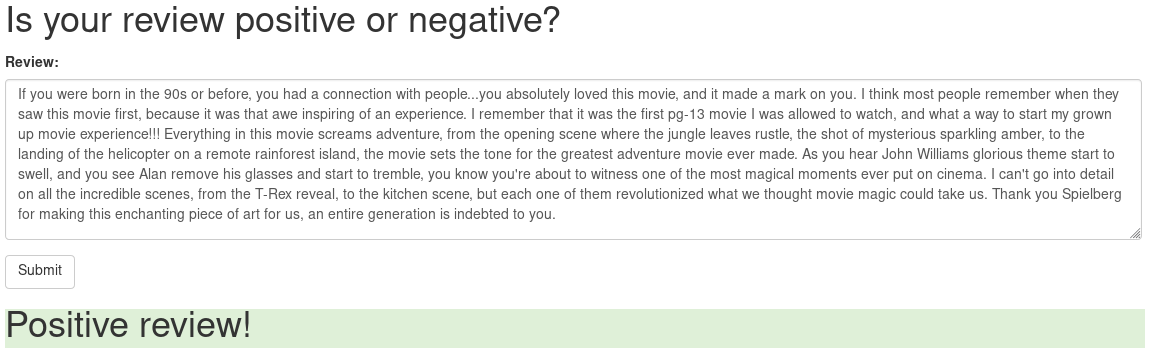
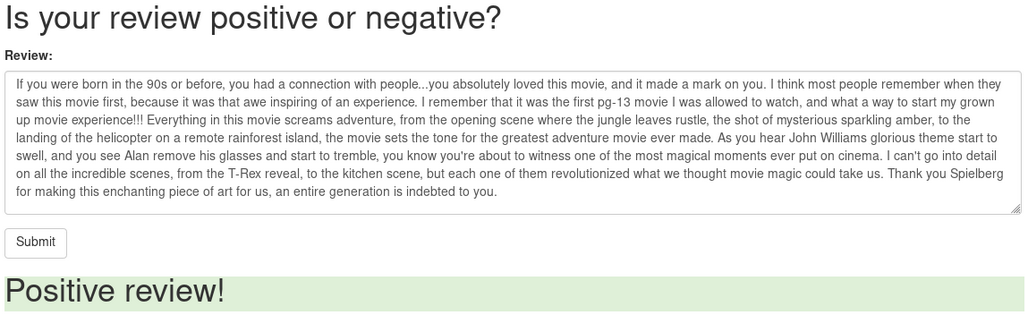
Reduce image size of positive review in Project 5

diff --git a/README.md b/README.md
@@ -84,7 +84,7 @@ In the final project, I created a web app for binary sentiment classification of
 
 Whenever a HTTP POST request from the web app is received by the API Gateway, the Lambda function is called and forwards the review content to the model's endpoint which is hosted on AWS. The model performs inference on this input data, and returns the classification result to the web app.
 
-For testing I have selected a review based on the movie *Jurassic Park*, which has with a 10-of-10 point score:
+For testing I have selected a review based on the movie *Jurassic Park*, which has a 10-of-10 point score:
 
 ![Classification Results](https://raw.githubusercontent.com/cfanatic/udacity-deep-learning/master/5-project-sentiment-analysis/images/review_positive.png)
 
